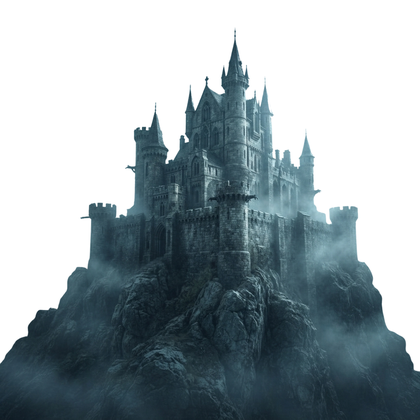
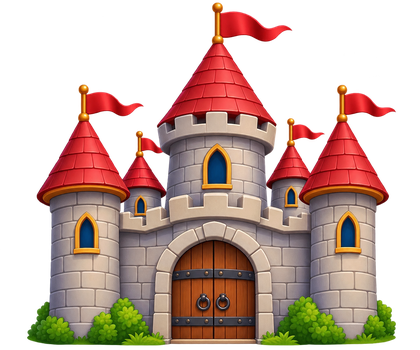
Add files via upload

diff --git a/index.html b/index.html
@@ -1408,6 +1408,14 @@
     'tijera',
     'tortuga',
     'transportador',
+    'escoba',
+    'gato_negro',
+    'telarana',
+    'tempera',
+    'carpeta',
+    'sobre',
+    'sacapuntas',
+    'cartuchera',
     'avion',
     'auto',
     'bicicleta',
@@ -1774,20 +1782,20 @@
   ];
 
   // Nivel 2 — útiles escolares (con imágenes reales). Ojo: hay 4
-  // palabras con C (cuaderno rojo, cuaderno, compás, crayones), por
+  // palabras con C (cartuchera, compás, cuaderno, carpeta), por
   // eso la validación es por letra y no por pareja fija.
   const ITEMS_NIVEL2_LEFT = [
-    { id: 'cuaderno_rojo', letter: 'C' },
+    { id: 'cartuchera',    letter: 'C' },
     { id: 'compas',        letter: 'C' },
-    { id: 'transportador', letter: 'T' },
-    { id: 'plasticola',    letter: 'P' },
+    { id: 'tempera',       letter: 'T' },
+    { id: 'sacapuntas',    letter: 'S' },
     { id: 'lapicera',      letter: 'L' },
   ];
   const ITEMS_NIVEL2_RIGHT = [
     { id: 'cuaderno',  letter: 'C' },
-    { id: 'crayones',  letter: 'C' },
+    { id: 'carpeta',   letter: 'C' },
     { id: 'tijera',    letter: 'T' },
-    { id: 'pincel',    letter: 'P' },
+    { id: 'sobre',     letter: 'S' },
     { id: 'lapiz',     letter: 'L' },
   ];
 
@@ -1951,11 +1959,11 @@
 
   // Nivel 2 — tienen el sonido "S" adentro
   const ITEMS_NIVEL2_SOUND = [
-    { id: 'mosca',      correct: true },
-    { id: 'castillo',   correct: true },
-    { id: 'momia4',     correct: false },
-    { id: 'fantasma4',  correct: true },
-    { id: 'arana4',     correct: false },
+    { id: 'mosca',       correct: true },
+    { id: 'castillo',    correct: true },
+    { id: 'gato_negro',  correct: false },
+    { id: 'escoba',      correct: true },
+    { id: 'telarana',    correct: false },
   ];
 
   // Nivel 3 — tienen el sonido "L" adentro
